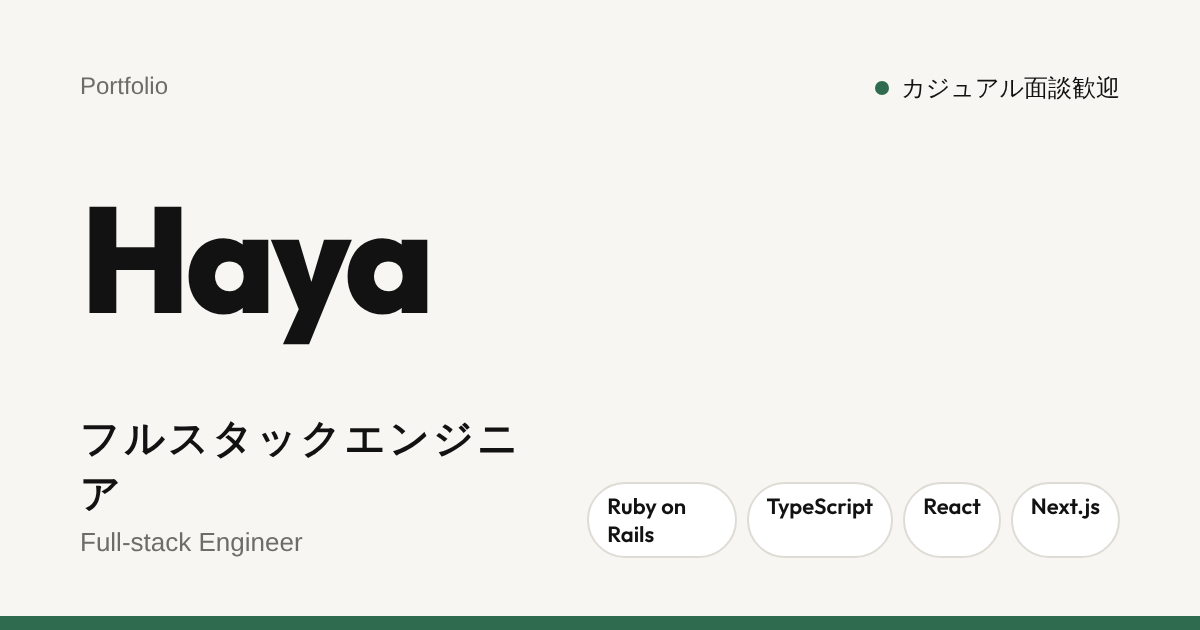
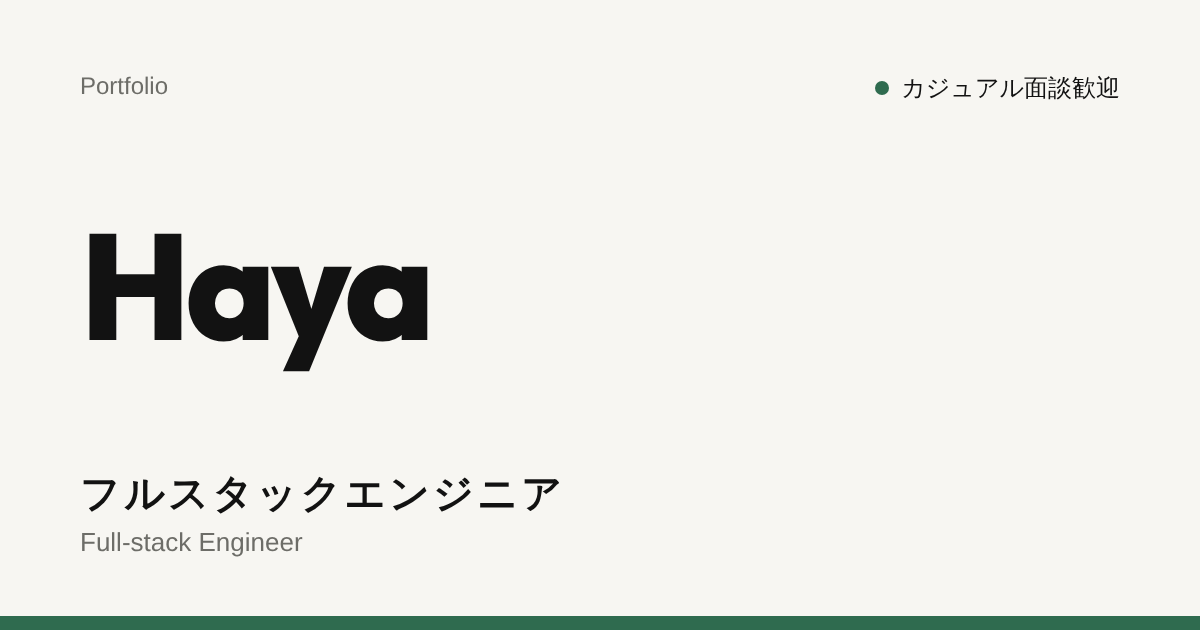
自己紹介から技術名の決めつけを外す
- 肩書きの下の技術名の行を削除（スキル欄と重複していたため）
- 紹介文の書き出しを、特定の技術ではなく仕事内容から始める形に変更
- カード画像とページの説明文からも技術名を外す

Claude-Session: https://claude.ai/code/session_01DgjyQUVC2C8SuDG7HmBCHs

diff --git a/src/data/profile.ts b/src/data/profile.ts
@@ -21,10 +21,9 @@ export const profile = {
   name: 'Haya',
   initials: 'H',
   title: 'フルスタックエンジニア',
-  role: 'Ruby on Rails / TypeScript / React / Next.js',
   location: '東京都在住',
   status: 'カジュアル面談歓迎',
-  bio: 'Ruby on Rails と React を中心に、SaaS の開発をしています。要件を決めるところからリリース後の運用まで担当していて、今はチームのリードとして計画や進行管理も見ています。開発以外では、メンターや採用面接、テックブログや登壇にも関わってきました。役者・ナレーターを目指していた時期と公法人での勤務を経て、独学でエンジニアになりました。',
+  bio: 'Web エンジニアとして、SaaS の開発をしています。要件を決めるところからリリース後の運用まで担当していて、今はチームのリードとして計画や進行管理も見ています。開発以外では、メンターや採用面接、テックブログや登壇にも関わってきました。役者・ナレーターを目指していた時期と公法人での勤務を経て、独学でエンジニアになりました。',
   email: 'haya.earth777.dev@gmail.com',
 } as const;
 

diff --git a/og/og.html b/og/og.html
@@ -24,7 +24,6 @@
     <h1>Haya</h1>
     <div class="bottom">
       <div><div class="jp">フルスタックエンジニア</div><div class="role">Full-stack Engineer</div></div>
-      <div class="stack"><span>Ruby on Rails</span><span>TypeScript</span><span>React</span><span>Next.js</span></div>
     </div>
   </div>
   <div class="bar"></div>
